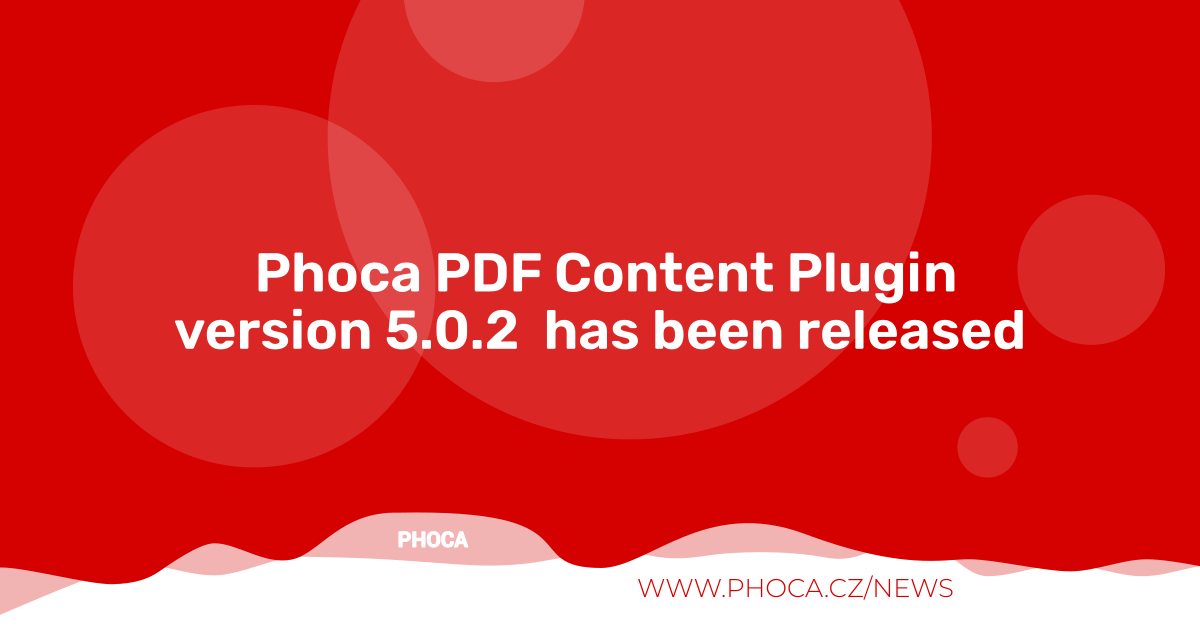
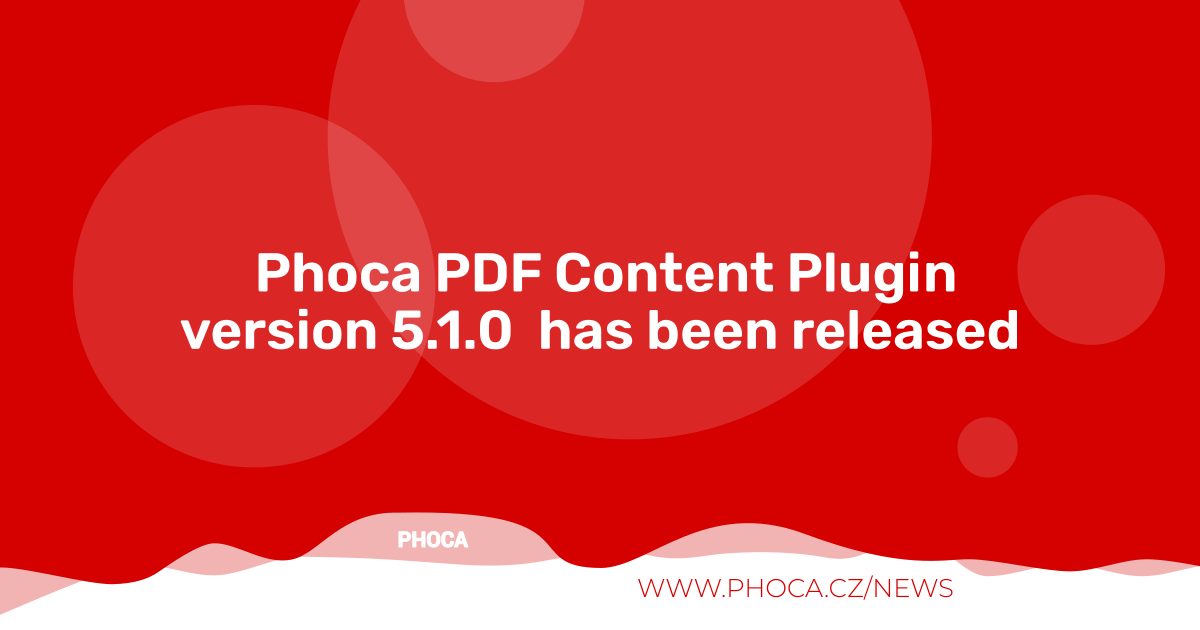
5.1.0

Changed region(s): [[0.1233, 0.4825, 0.8633, 0.573]]

diff --git a/README.MD b/README.MD
@@ -66,7 +66,7 @@ Phoca PDF Content plugin is Joomla! plugin which enables option to render PDF do
 
 ## Version (Joomla! 5.x)
 
-5.0.2
+5.1.0
 
 
 
